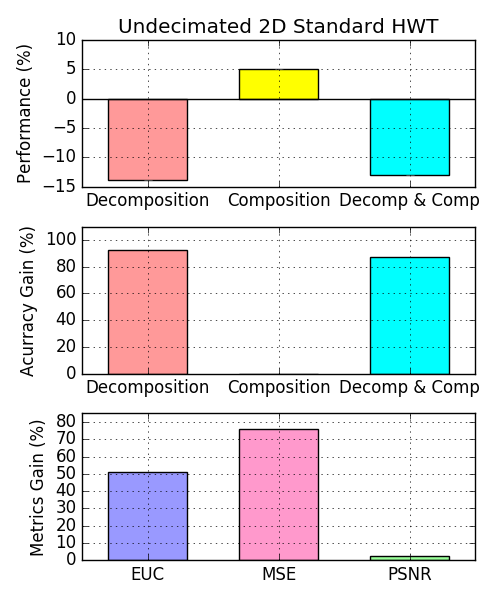
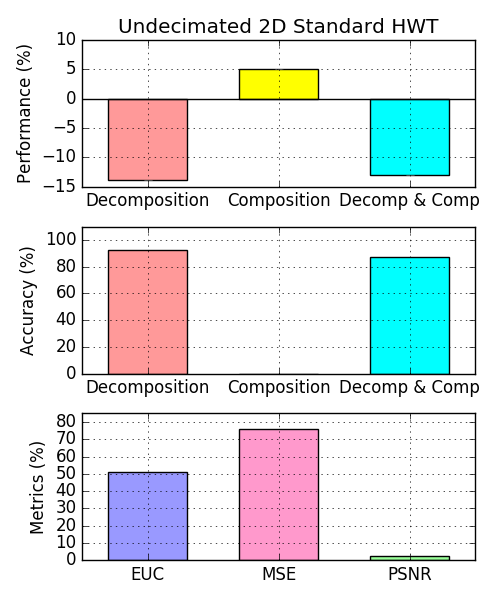
Fixed: Accuracy spelled wrong

Changed region(s): [[0.03, 0.36, 0.09, 0.63], [0.06, 0.69, 0.09, 0.93]]

diff --git a/results/charts/test4NS.py b/results/charts/test4NS.py
@@ -62,7 +62,7 @@ plt.sca(ax[1])
 
 developedError = (92.592593, 0.000000, 87.610619)
 
-plt.ylabel('Acurracy Gain (%)')
+plt.ylabel('Accuracy (%)')
 plt.xticks(index, ('Decomposition', 'Composition', 'Decomp & Comp'))
 plt.grid(True)
 plt.ylim([0.0,110.0])
@@ -79,7 +79,7 @@ plt.sca(ax[2])
 
 MetricResults = (50.8733, 75.8657, 2.04027)
 
-plt.ylabel('Metrics Gain (%)')
+plt.ylabel('Metrics (%)')
 plt.xticks(index, ('EUC', 'MSE', 'PSNR'))
 plt.grid(True)
 plt.ylim([0.0,85.0])

diff --git a/results/charts/test4S.py b/results/charts/test4S.py
@@ -62,7 +62,7 @@ plt.sca(ax[1])
 
 developedError = (92.592593, 0.000000, 87.387387)
 
-plt.ylabel('Acurracy Gain (%)')
+plt.ylabel('Accuracy (%)')
 plt.xticks(index, ('Decomposition', 'Composition', 'Decomp & Comp'))
 plt.grid(True)
 plt.ylim([0.0,110.0])
@@ -79,7 +79,7 @@ plt.sca(ax[2])
 
 MetricResults = (50.8733, 75.8657, 2.15648)
 
-plt.ylabel('Metrics Gain (%)')
+plt.ylabel('Metrics (%)')
 plt.xticks(index, ('EUC', 'MSE', 'PSNR'))
 plt.grid(True)
 plt.ylim([0.0,85.0])

diff --git a/results/charts/test1.py b/results/charts/test1.py
@@ -65,7 +65,7 @@ plt.sca(ax[1])
 
 developedError = (99.764151, 95.833333, 95.107914)
 
-plt.ylabel('Acurracy (%)')
+plt.ylabel('Accuracy (%)')
 plt.xticks(index, ('Decomposition', 'Composition', 'Decomp & Comp'))
 plt.grid(True)
 plt.ylim([0.0,110.0])

diff --git a/results/charts/test2S.py b/results/charts/test2S.py
@@ -61,7 +61,7 @@ plt.sca(ax[1])
 
 developedError = (99.824766, 93.548387, 98.285199)
 
-plt.ylabel('Acurracy (%)')
+plt.ylabel('Accuracy (%)')
 plt.xticks(index, ('Decomposition', 'Composition', 'Decomp & Comp'))
 plt.grid(True)
 plt.ylim([0.0,110.0])

diff --git a/results/charts/test3.py b/results/charts/test3.py
@@ -62,7 +62,7 @@ plt.sca(ax[1])
 
 developedError = (69.230769, 0.000000, 81.081081)
 
-plt.ylabel('Acurracy (%)')
+plt.ylabel('Accuracy (%)')
 plt.xticks(index, ('Decomposition', 'Composition', 'Decomp & Comp'))
 plt.grid(True)
 plt.ylim([0.0,110.0])

diff --git a/results/charts/test2NS.py b/results/charts/test2NS.py
@@ -61,7 +61,7 @@ plt.sca(ax[1])
 
 developedError = (100.0, 100.0, 100.0)
 
-plt.ylabel('Acurracy (%)')
+plt.ylabel('Accuracy (%)')
 plt.xticks(index, ('Decomposition', 'Composition', 'Decomp & Comp'))
 plt.grid(True)
 plt.ylim([0.0,110.0])
